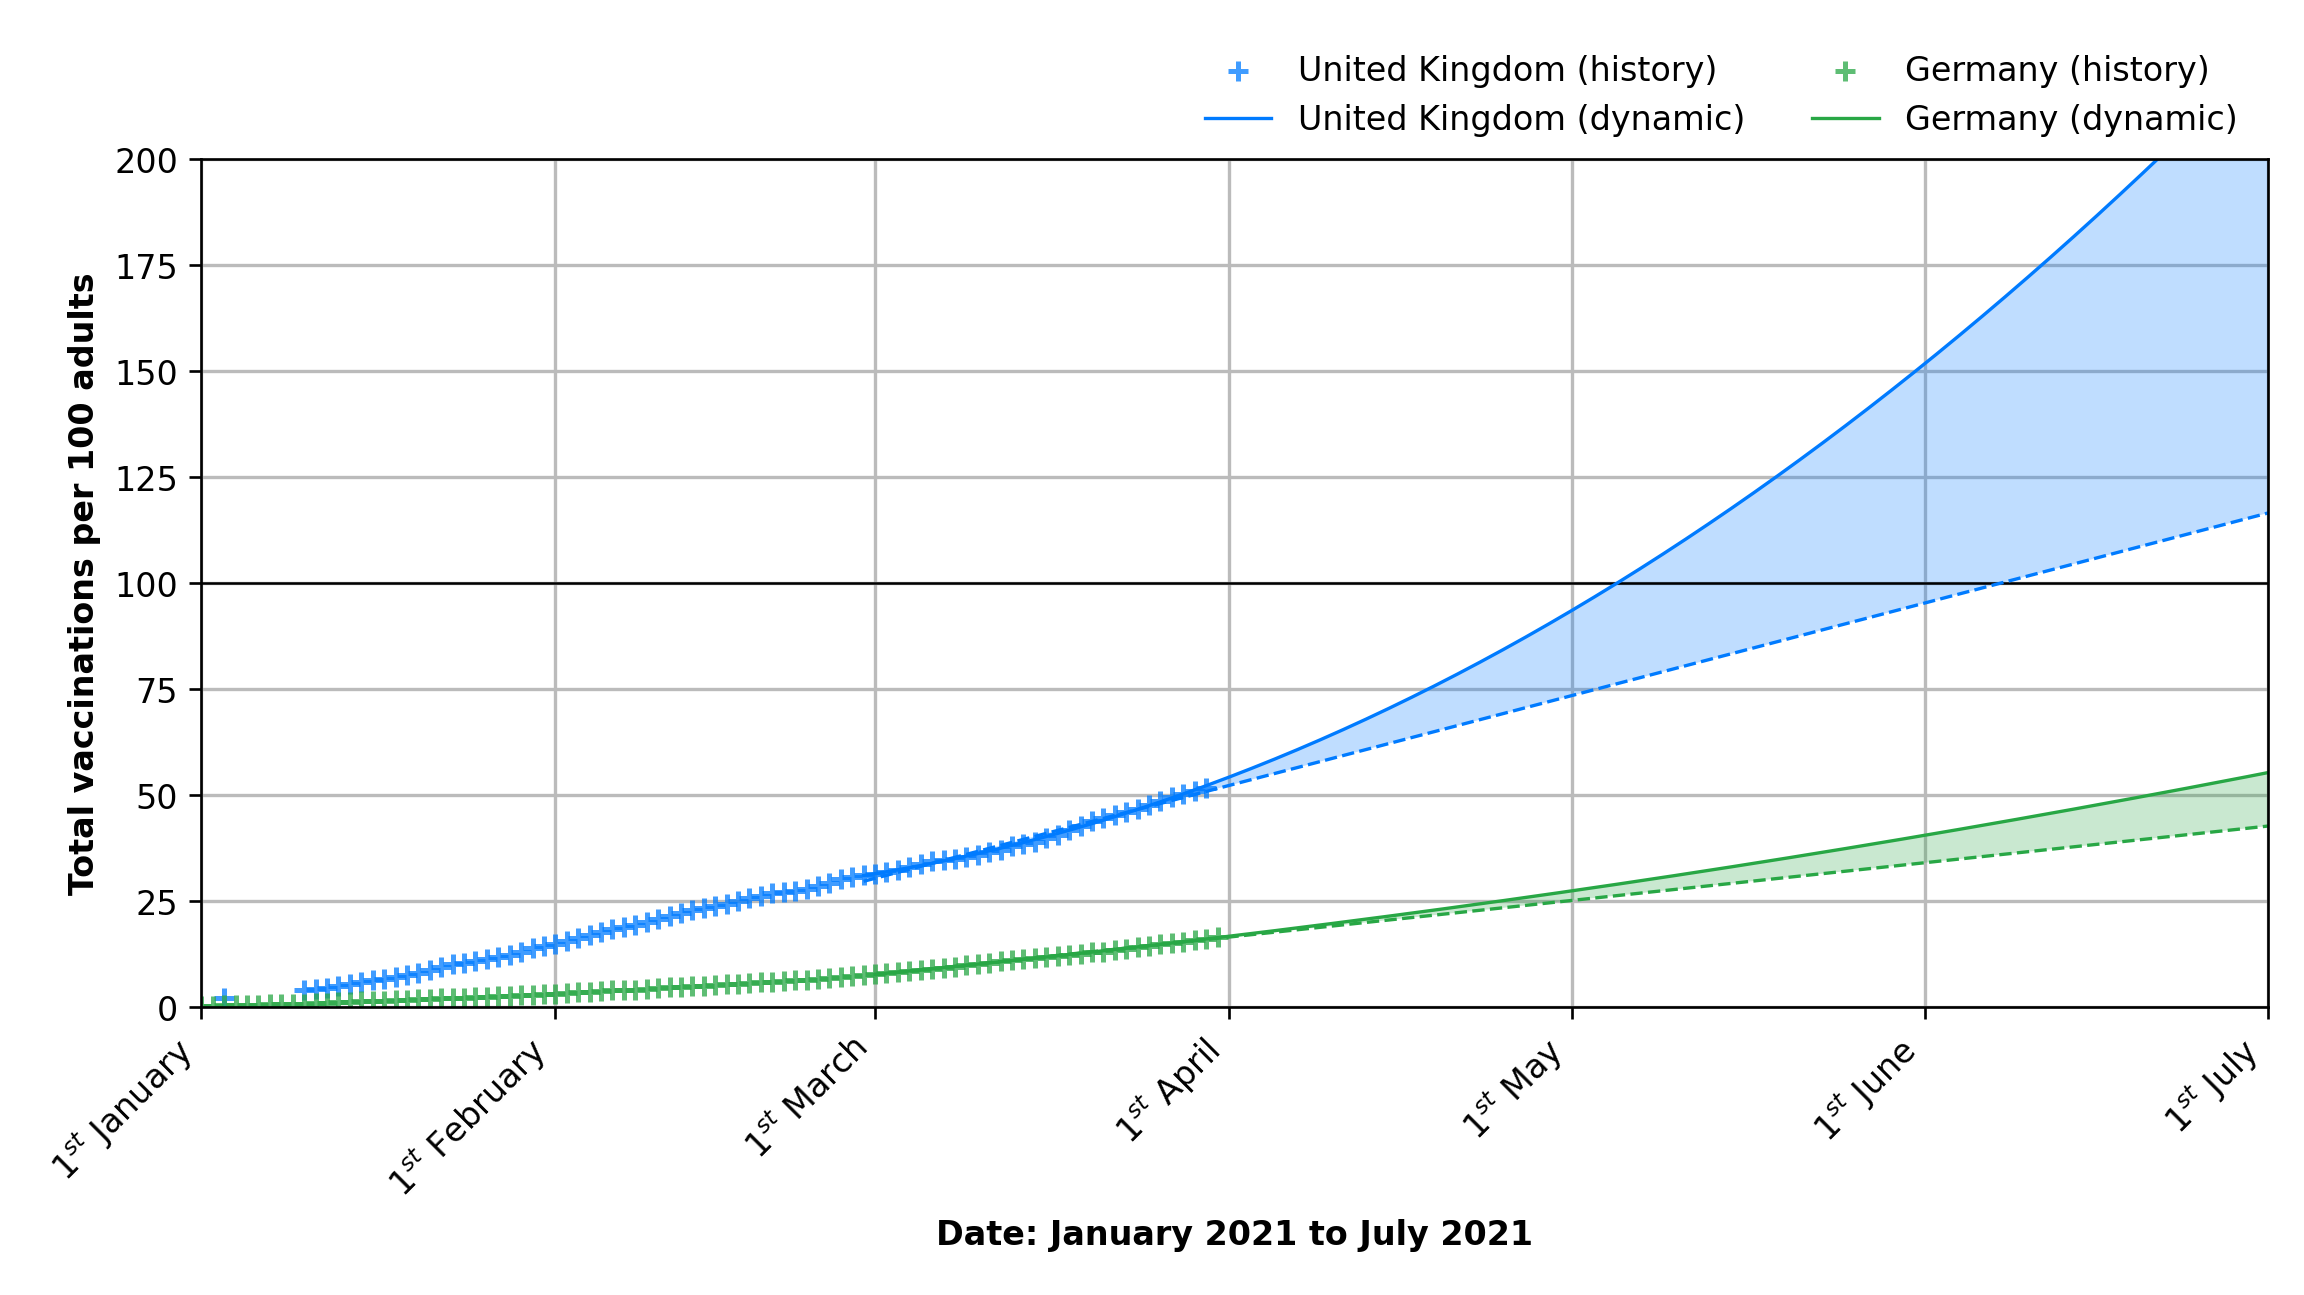
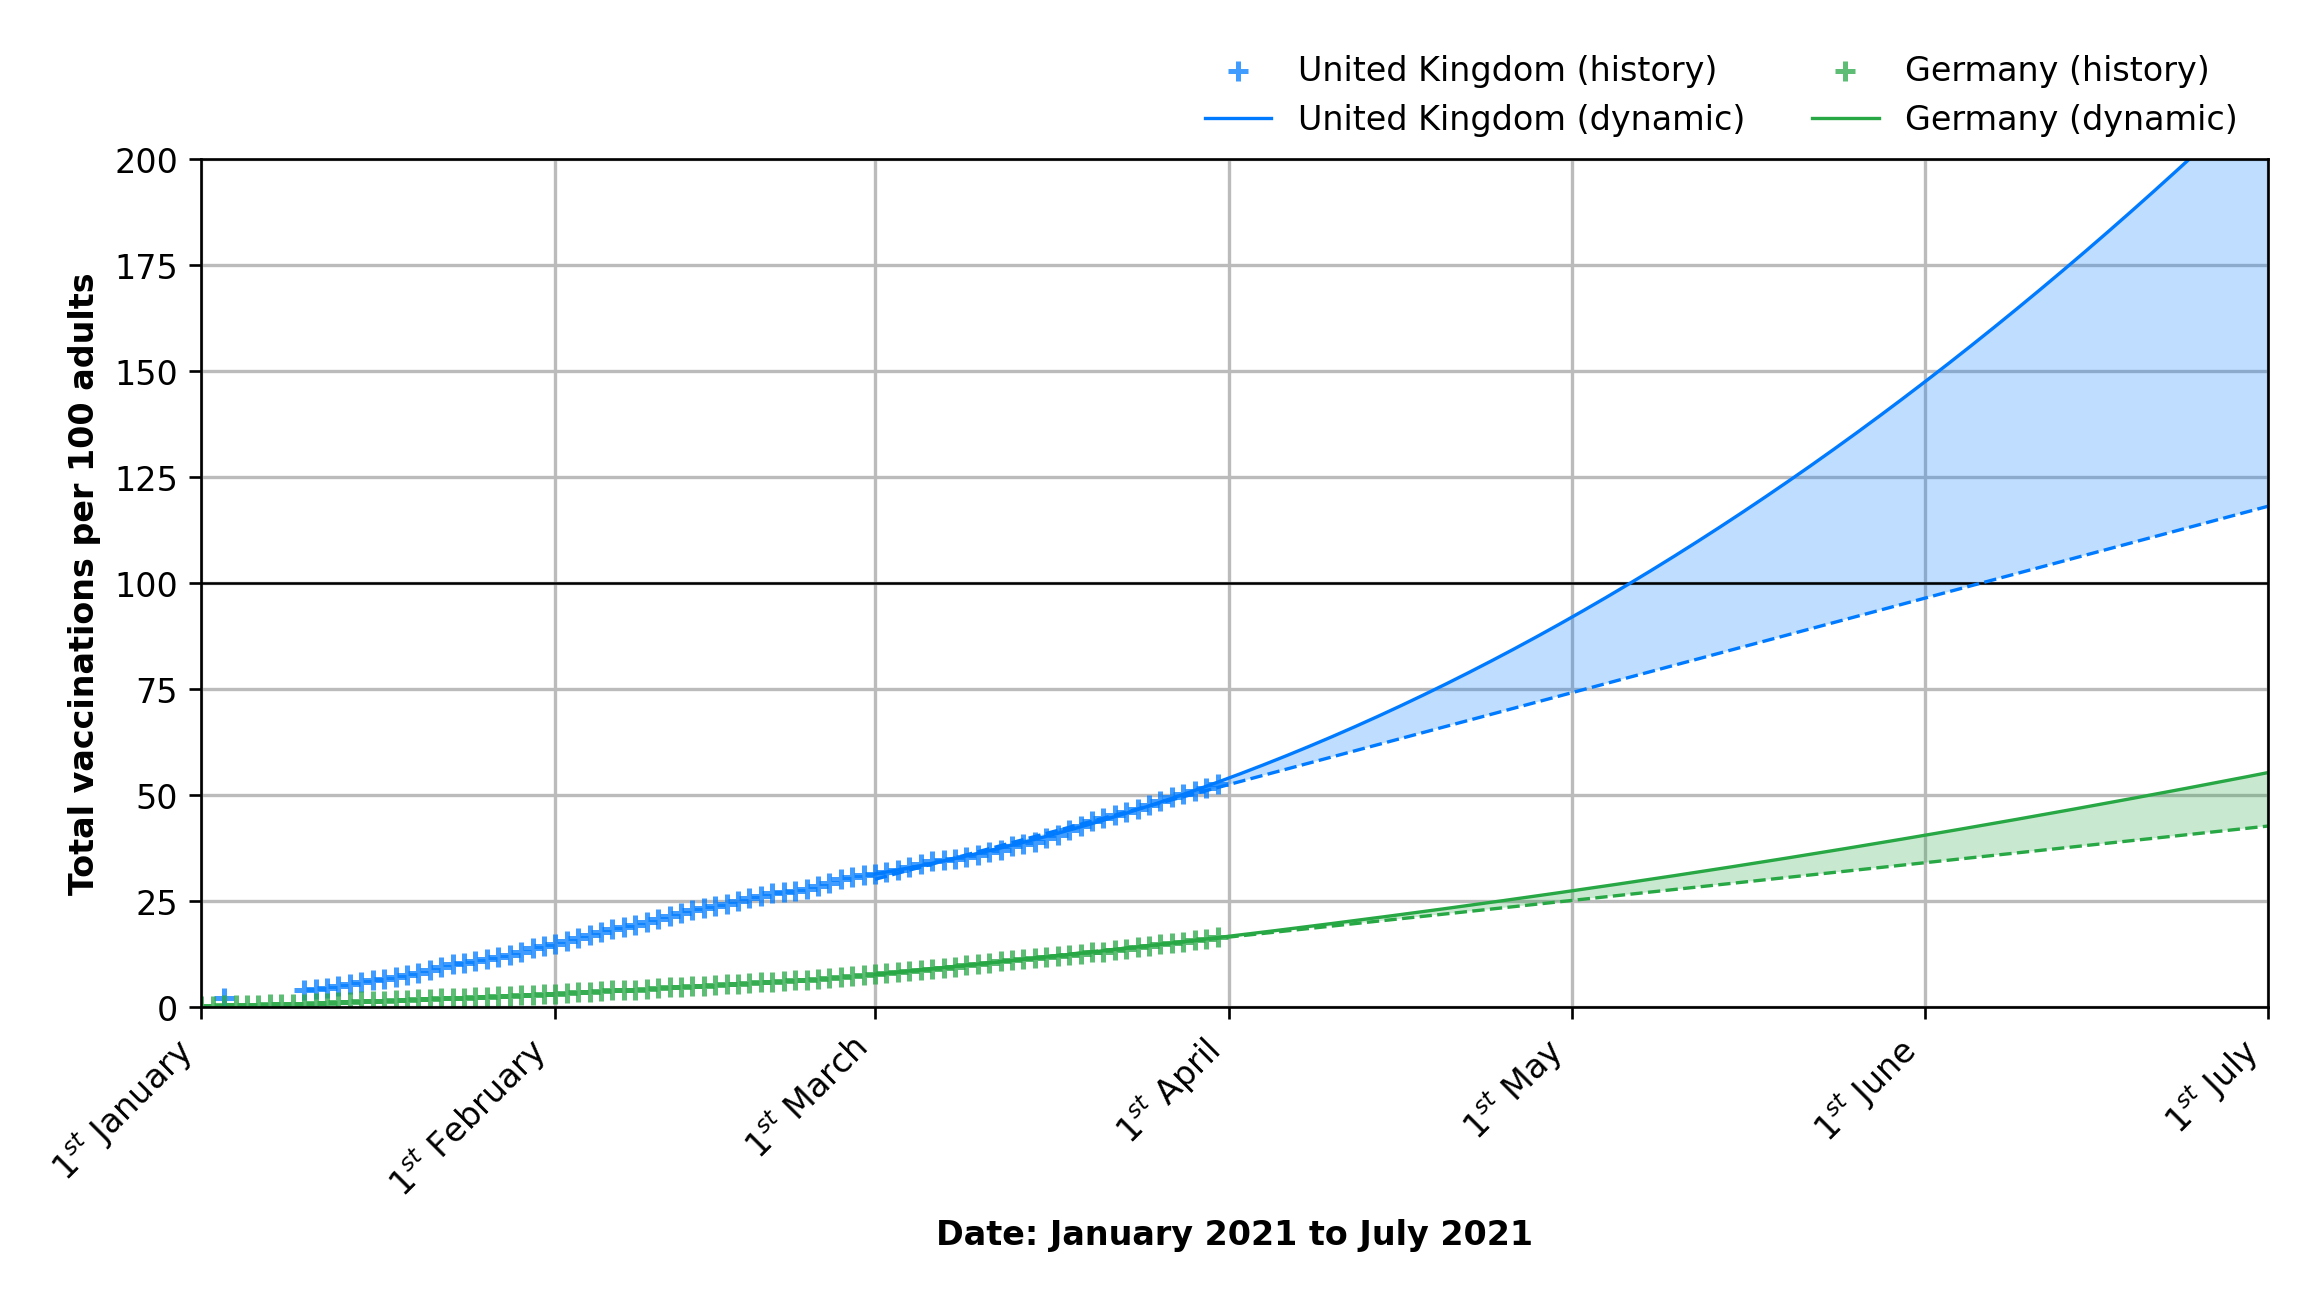
Deploying to gh-pages from @ lambdapioneer/vactrend@0b151e50bae144ff27c39ffb07cd62d871ed93a9 🚀

diff --git a/index.html b/index.html
@@ -37,13 +37,13 @@
                 <div class="card">
                     <div class="card-header">🇬🇧 United Kingdom</div>
                     <div class="card-body">
-                        <h3 class="font-weight-bold" style="color: #007bff">51.58 <small>(+0.73/d)</small></h3>
+                        <h3 class="font-weight-bold" style="color: #007bff">52.53 <small>(+0.95/d)</small></h3>
                         <p class="mt-n2">Vaccinations per 100 adults</p>
-                        <h3 class=" font-weight-bold">05 May 2021</h3>
+                        <h3 class=" font-weight-bold">07 May 2021</h3>
                         <p class="mt-n2">Earliest day: 100 vacc. per 100 adults</p>
-                        <h3 class=" font-weight-bold">22 June 2021</h3>
+                        <h3 class=" font-weight-bold">25 June 2021</h3>
                         <p class="mt-n2">Earliest day: 200 vacc. per 100 adults</p>
-                        <p class="card-text"><small class="text-muted">Last data from 30 March 2021.</small></p>
+                        <p class="card-text"><small class="text-muted">Last data from 31 March 2021.</small></p>
                     </div>
                 </div>
             </div>
